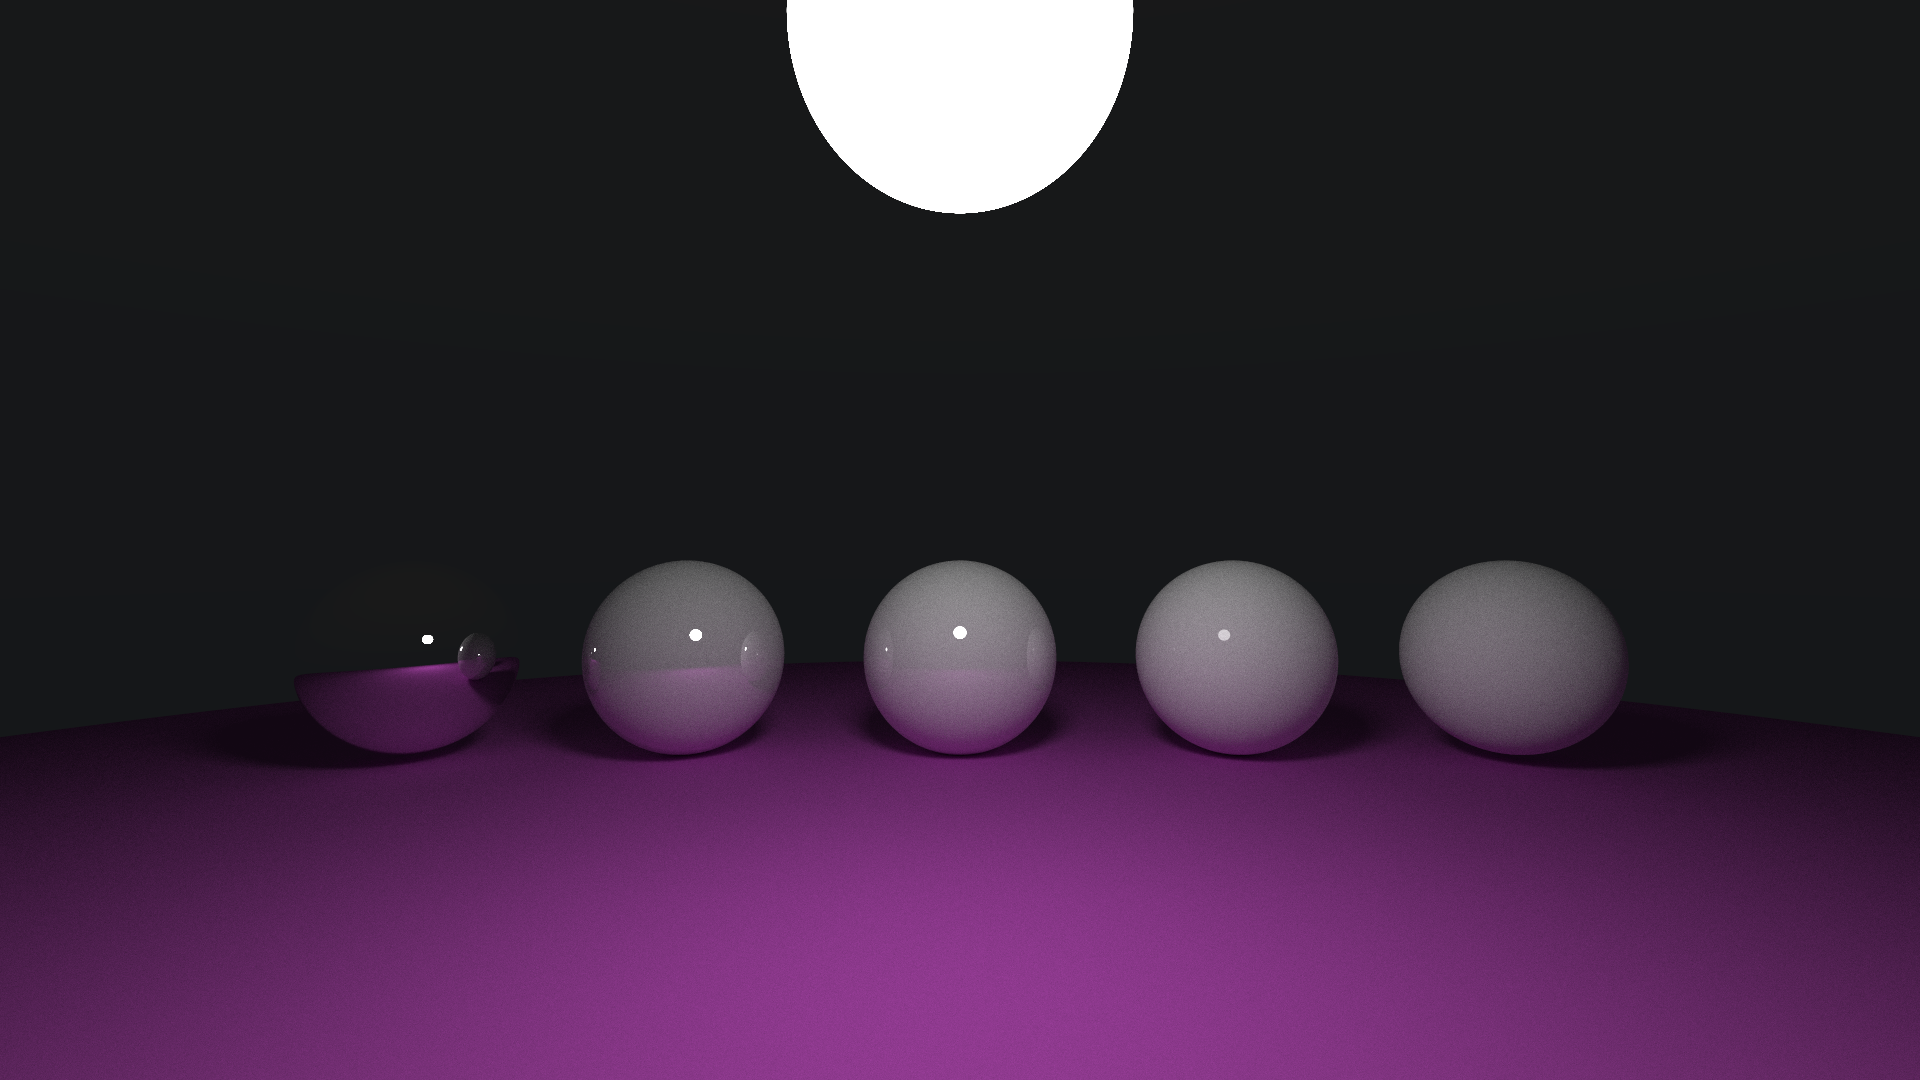
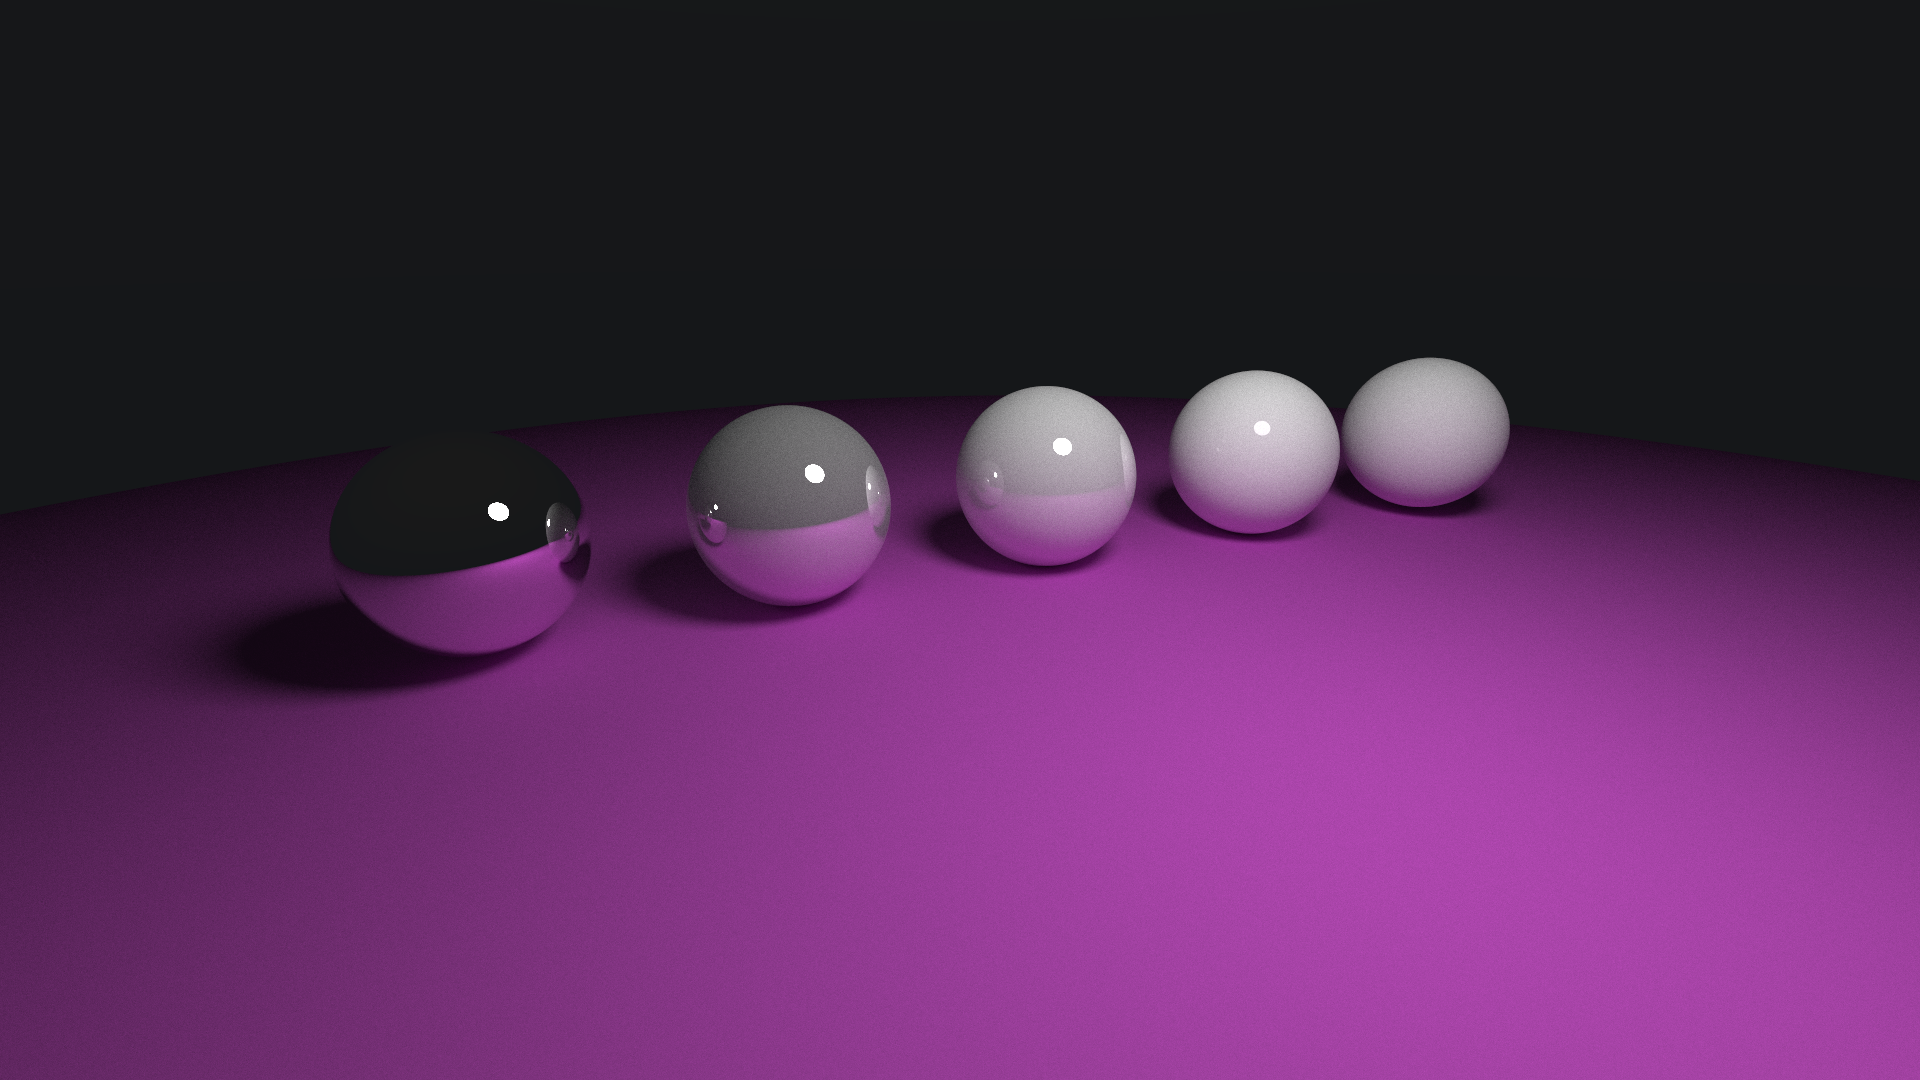
feat: add look_from and look_at vectors to position and aim the camera

diff --git a/include/path_tracer/camera.h b/include/path_tracer/camera.h
@@ -13,10 +13,11 @@ public:
 	int samples_per_pixel = 10;	
 	int max_depth = 10;
 	int image_height;
-	point3 center = point3(0, 0, 0);
 
 	double vfov= 90;
-
+	point3 look_from = point3(0, 0, 0);
+	point3 look_at = point3(0, 0, -1);
+	vec3 vup = vec3(0, 1, 0);
 
 
 	ray get_ray(int i, int j) const {
@@ -37,18 +38,25 @@ public:
 
 		pixel_samples_scale = 1.0 / samples_per_pixel;
 
+		center = look_from;
+		auto focal_length = (look_from - look_at).length();
+
+		w = unit_vector(look_from - look_at);
+		u = unit_vector(cross(vup, w));
+		v = cross(w, u);
+
 		double vfov_radians = utils::degrees_to_radians(vfov);
 		auto viewport_height = 2 * std::tan(vfov_radians /2) * focal_length;
 		auto viewport_width = viewport_height * (double(image_width)/image_height);
 
-		auto viewport_u = vec3(viewport_width, 0, 0);
-		auto viewport_v = vec3(0, -viewport_height, 0);
+		auto viewport_u = u * viewport_width;
+		auto viewport_v = -v * viewport_height;
 
 		pixel_delta_u = viewport_u / image_width;
 		pixel_delta_v = viewport_v / image_height;
 
 		auto viewport_upper_left = center
-					-vec3(0, 0, focal_length)
+					-(w * focal_length)
 					-viewport_u/2
 					-viewport_v/2;
 
@@ -62,7 +70,8 @@ private:
 	vec3 pixel_delta_u;
 	vec3 pixel_delta_v;
 	double pixel_samples_scale; //color scale factor for a sum of pixel samples
-	float focal_length = 2.0;
+	vec3 u, v, w;
+	point3 center = point3(0, 0, 0);
 
 	vec3 sample_square() const {
 		return vec3(utils::random_double() - 0.5, utils::random_double() - 0.5, 0);

diff --git a/include/path_tracer/scene_loader.h b/include/path_tracer/scene_loader.h
@@ -96,8 +96,9 @@ private:
 	void parse_camera(camera& cam) {
 		auto cam_node = m_scene_file["camera"];
 
-		cam.center = cam_node["center"].as<vec3>(vec3(0, 0, 0));
-		cam.vfov = cam_node["fov"].as<double>(90.0);
+		cam.look_from = cam_node["look_from"].as<vec3>(vec3(0, 0, 0));
+		cam.look_at = cam_node["look_at"].as<vec3>(vec3(0, 0, -1));
+		cam.vfov = cam_node["fov"].as<double>(65.0);
 	}
 };
 
